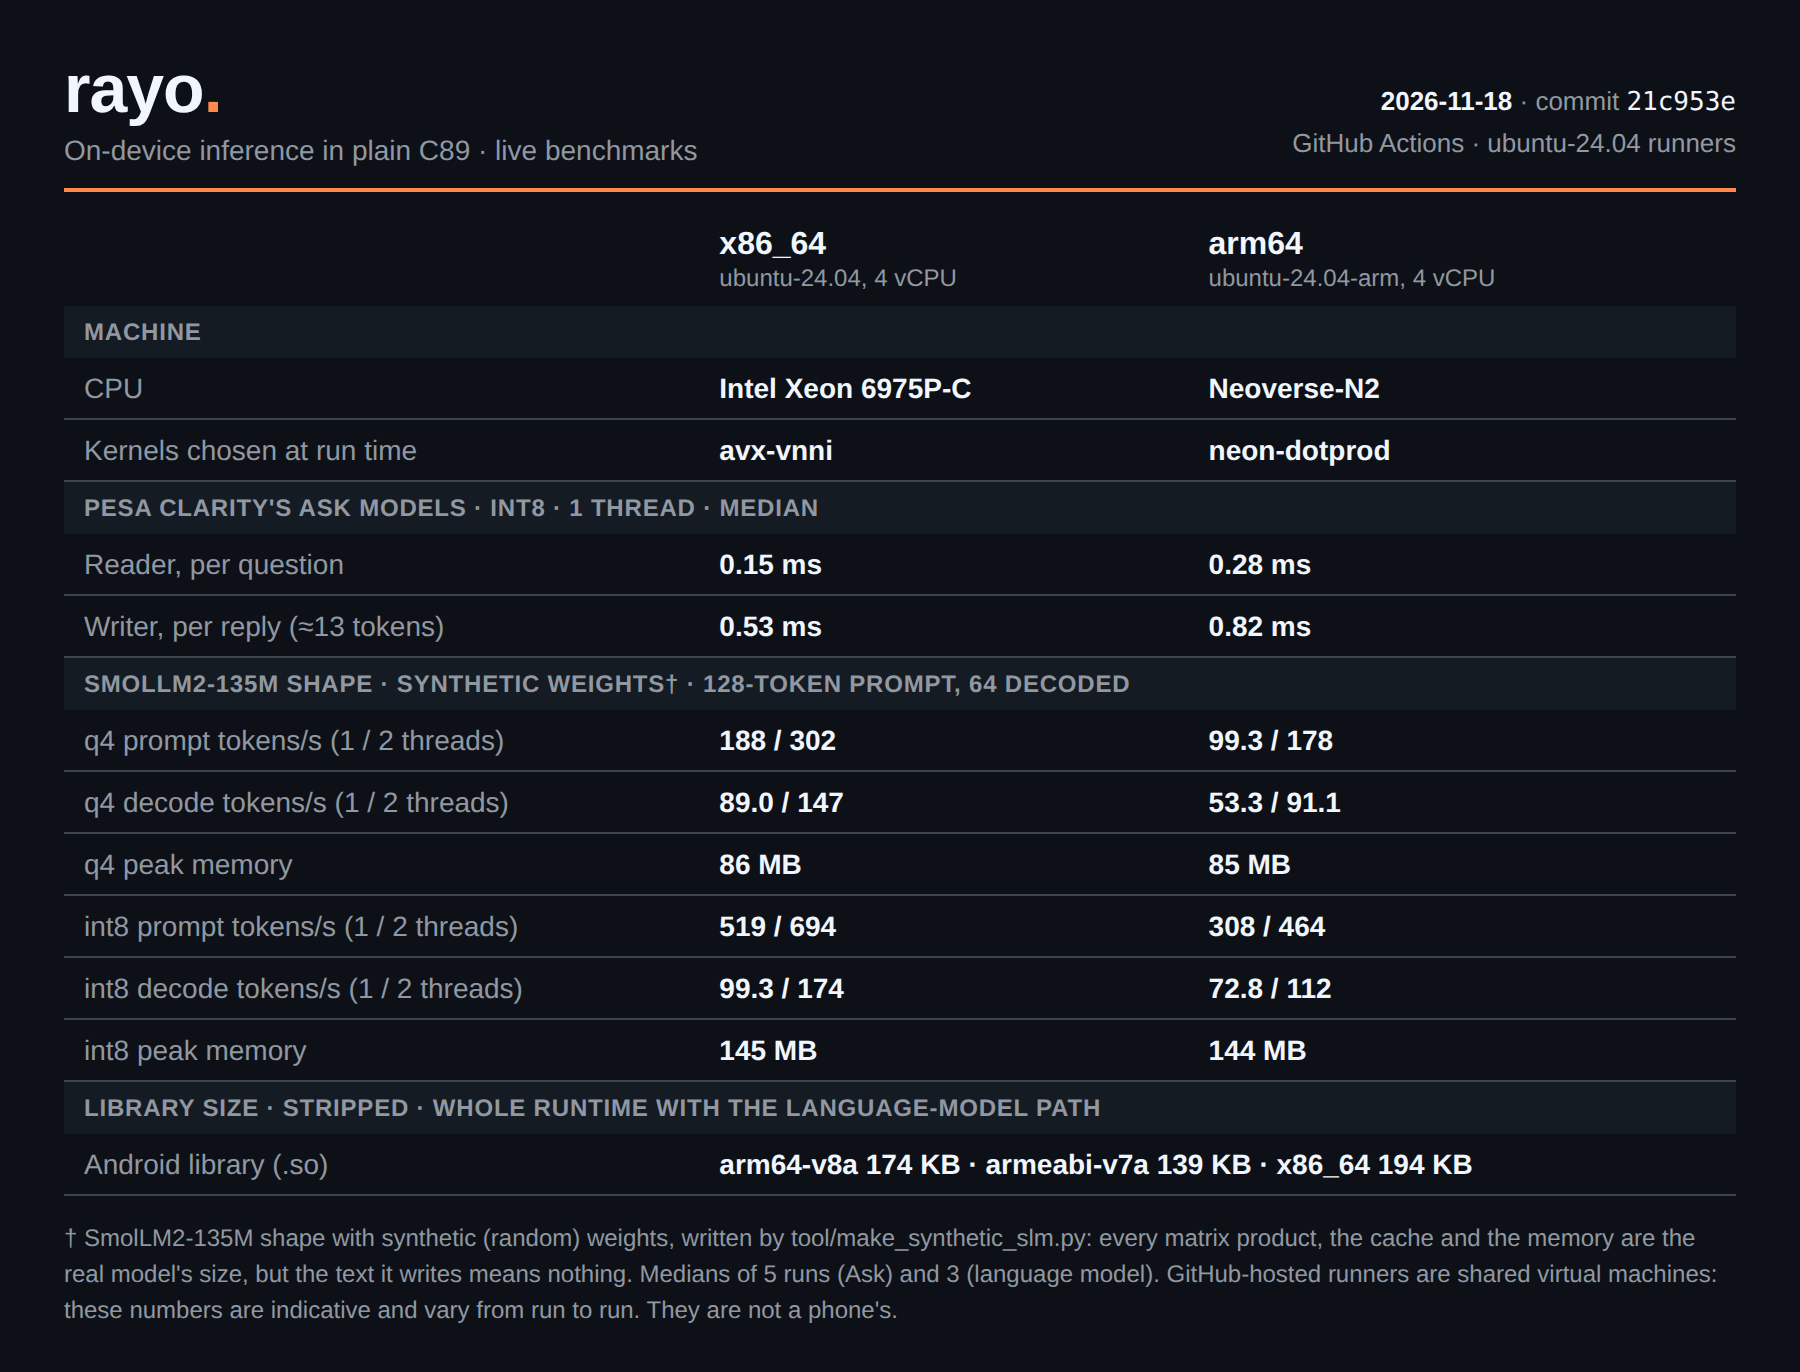
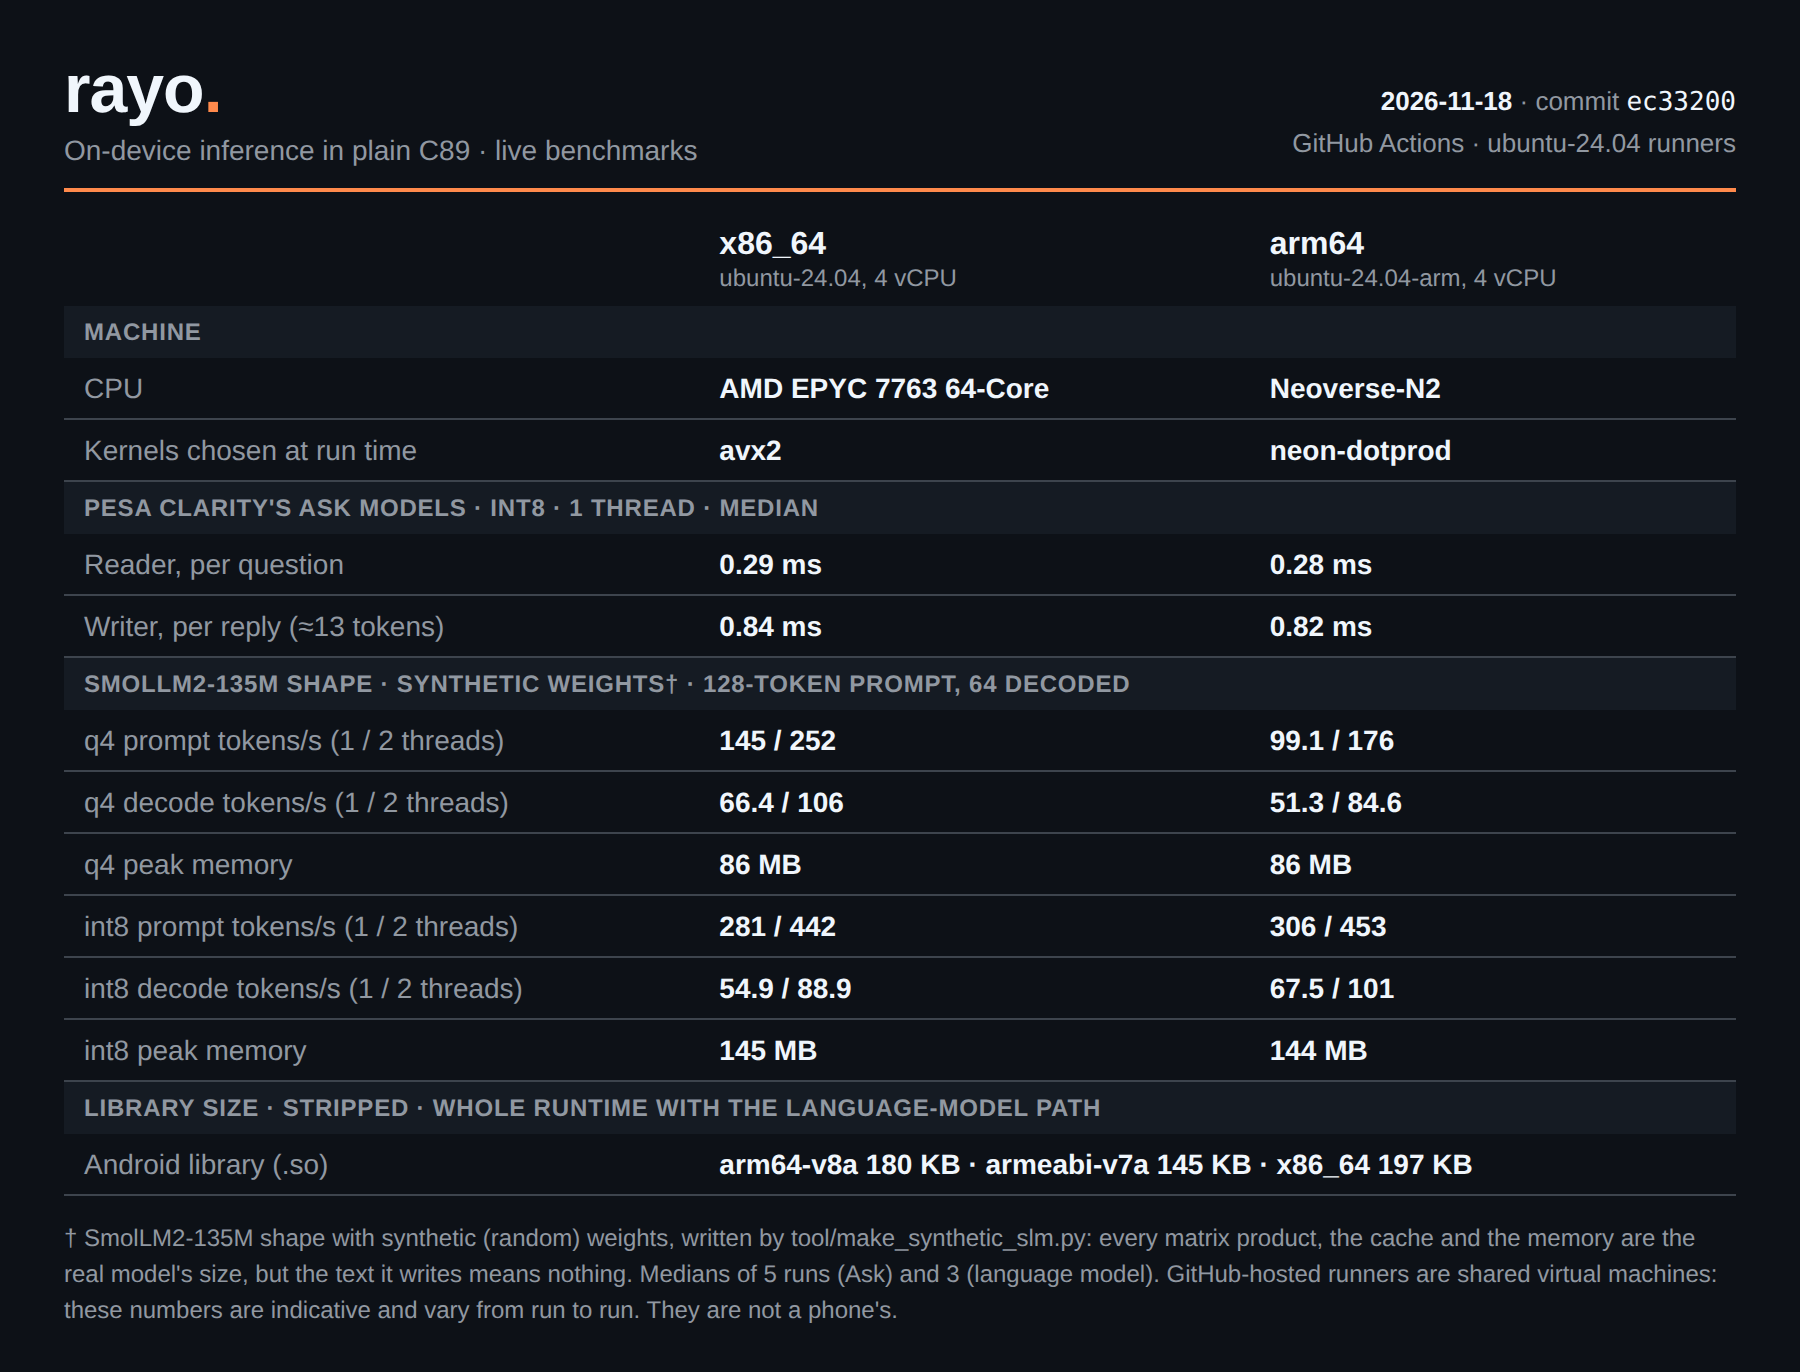
bench: ec33200
Results of pesaclarity/rayo@ec33200d47f454eb128cd5ddf9ed00658af16f87 (https://github.com/pesaclarity/rayo/actions/runs/44343281346).

diff --git a/table.html b/table.html
@@ -39,25 +39,25 @@ footer { margin-top: 12px; font-size: 12px; color: var(--muted); line-height: 1.
 <header>
   <div class="brand">rayo<span>.</span><small>On-device inference in plain C89 · live
   benchmarks</small></div>
-  <div class="meta"><b>2026-11-18</b> · commit <code>21c953e</code><br>
+  <div class="meta"><b>2026-11-18</b> · commit <code>ec33200</code><br>
   GitHub Actions · ubuntu-24.04 runners</div>
 </header>
 <table><thead><tr><th></th><th>x86_64<small>ubuntu-24.04, 4 vCPU</small></th><th>arm64<small>ubuntu-24.04-arm, 4 vCPU</small></th></tr></thead><tbody>
 <tr class="section"><td colspan="3">Machine</td></tr>
-<tr><td class="label">CPU</td><td class="num">Intel Xeon 6975P-C</td><td class="num">Neoverse-N2</td></tr>
-<tr><td class="label">Kernels chosen at run time</td><td class="num">avx-vnni</td><td class="num">neon-dotprod</td></tr>
+<tr><td class="label">CPU</td><td class="num">AMD EPYC 7763 64-Core</td><td class="num">Neoverse-N2</td></tr>
+<tr><td class="label">Kernels chosen at run time</td><td class="num">avx2</td><td class="num">neon-dotprod</td></tr>
 <tr class="section"><td colspan="3">Pesa Clarity&#x27;s Ask models · int8 · 1 thread · median</td></tr>
-<tr><td class="label">Reader, per question</td><td class="num">0.15 ms</td><td class="num">0.28 ms</td></tr>
-<tr><td class="label">Writer, per reply (≈13 tokens)</td><td class="num">0.53 ms</td><td class="num">0.82 ms</td></tr>
+<tr><td class="label">Reader, per question</td><td class="num">0.29 ms</td><td class="num">0.28 ms</td></tr>
+<tr><td class="label">Writer, per reply (≈13 tokens)</td><td class="num">0.84 ms</td><td class="num">0.82 ms</td></tr>
 <tr class="section"><td colspan="3">SmolLM2-135M shape · synthetic weights† · 128-token prompt, 64 decoded</td></tr>
-<tr><td class="label">q4 prompt tokens/s (1 / 2 threads)</td><td class="num">188 / 302</td><td class="num">99.3 / 178</td></tr>
-<tr><td class="label">q4 decode tokens/s (1 / 2 threads)</td><td class="num">89.0 / 147</td><td class="num">53.3 / 91.1</td></tr>
-<tr><td class="label">q4 peak memory</td><td class="num">86 MB</td><td class="num">85 MB</td></tr>
-<tr><td class="label">int8 prompt tokens/s (1 / 2 threads)</td><td class="num">519 / 694</td><td class="num">308 / 464</td></tr>
-<tr><td class="label">int8 decode tokens/s (1 / 2 threads)</td><td class="num">99.3 / 174</td><td class="num">72.8 / 112</td></tr>
+<tr><td class="label">q4 prompt tokens/s (1 / 2 threads)</td><td class="num">145 / 252</td><td class="num">99.1 / 176</td></tr>
+<tr><td class="label">q4 decode tokens/s (1 / 2 threads)</td><td class="num">66.4 / 106</td><td class="num">51.3 / 84.6</td></tr>
+<tr><td class="label">q4 peak memory</td><td class="num">86 MB</td><td class="num">86 MB</td></tr>
+<tr><td class="label">int8 prompt tokens/s (1 / 2 threads)</td><td class="num">281 / 442</td><td class="num">306 / 453</td></tr>
+<tr><td class="label">int8 decode tokens/s (1 / 2 threads)</td><td class="num">54.9 / 88.9</td><td class="num">67.5 / 101</td></tr>
 <tr><td class="label">int8 peak memory</td><td class="num">145 MB</td><td class="num">144 MB</td></tr>
 <tr class="section"><td colspan="3">Library size · stripped · whole runtime with the language-model path</td></tr>
-<tr><td class="label">Android library (.so)</td><td class="num" colspan="2">arm64-v8a 174 KB · armeabi-v7a 139 KB · x86_64 194 KB</td></tr>
+<tr><td class="label">Android library (.so)</td><td class="num" colspan="2">arm64-v8a 180 KB · armeabi-v7a 145 KB · x86_64 197 KB</td></tr>
 </tbody></table>
 <footer>† SmolLM2-135M shape with synthetic (random) weights, written by tool/make_synthetic_slm.py: every matrix product, the cache and the memory are the real model&#x27;s size, but the text it writes means nothing. Medians of 5 runs (Ask) and 3 (language model). GitHub-hosted runners are shared virtual machines: these numbers are indicative and vary from run to run. They are not a phone&#x27;s.</footer>
 </div></body></html>

diff --git a/README.md b/README.md
@@ -7,34 +7,36 @@ Written by CI after every push to `main` ([`.github/workflows/ci.yml`](https://g
   <img alt="rayo benchmarks" src="table-light.png">
 </picture>
 
-## Latest: 2026-11-18, [`21c953e`](https://github.com/pesaclarity/rayo/commit/21c953ebad8cb88790add8fcb8462e371cd6229d)
+## Latest: 2026-11-18, [`ec33200`](https://github.com/pesaclarity/rayo/commit/ec33200d47f454eb128cd5ddf9ed00658af16f87)
 
 | | **x86_64**<br>ubuntu-24.04, 4 vCPU | **arm64**<br>ubuntu-24.04-arm, 4 vCPU |
 | --- | --- | --- |
 | **Machine** | | |
-| CPU | Intel Xeon 6975P-C | Neoverse-N2 |
-| Kernels chosen at run time | avx-vnni | neon-dotprod |
+| CPU | AMD EPYC 7763 64-Core | Neoverse-N2 |
+| Kernels chosen at run time | avx2 | neon-dotprod |
 | **Pesa Clarity's Ask models · int8 · 1 thread · median** | | |
-| Reader, per question | 0.15 ms | 0.28 ms |
-| Writer, per reply (≈13 tokens) | 0.53 ms | 0.82 ms |
+| Reader, per question | 0.29 ms | 0.28 ms |
+| Writer, per reply (≈13 tokens) | 0.84 ms | 0.82 ms |
 | **SmolLM2-135M shape · synthetic weights† · 128-token prompt, 64 decoded** | | |
-| q4 prompt tokens/s (1 / 2 threads) | 188 / 302 | 99.3 / 178 |
-| q4 decode tokens/s (1 / 2 threads) | 89.0 / 147 | 53.3 / 91.1 |
-| q4 peak memory | 86 MB | 85 MB |
-| int8 prompt tokens/s (1 / 2 threads) | 519 / 694 | 308 / 464 |
-| int8 decode tokens/s (1 / 2 threads) | 99.3 / 174 | 72.8 / 112 |
+| q4 prompt tokens/s (1 / 2 threads) | 145 / 252 | 99.1 / 176 |
+| q4 decode tokens/s (1 / 2 threads) | 66.4 / 106 | 51.3 / 84.6 |
+| q4 peak memory | 86 MB | 86 MB |
+| int8 prompt tokens/s (1 / 2 threads) | 281 / 442 | 306 / 453 |
+| int8 decode tokens/s (1 / 2 threads) | 54.9 / 88.9 | 67.5 / 101 |
 | int8 peak memory | 145 MB | 144 MB |
 | **Library size · stripped · whole runtime with the language-model path** | | |
-| Android library (.so) | arm64-v8a 174 KB · armeabi-v7a 139 KB · x86_64 194 KB |  |
+| Android library (.so) | arm64-v8a 180 KB · armeabi-v7a 145 KB · x86_64 197 KB |  |
 
 † SmolLM2-135M shape with synthetic (random) weights, written by tool/make_synthetic_slm.py: every matrix product, the cache and the memory are the real model's size, but the text it writes means nothing.
 
-The run: https://github.com/pesaclarity/rayo/actions/runs/44327395388
+The run: https://github.com/pesaclarity/rayo/actions/runs/44343281346
 
 ## History (the last 10 runs; all in [history.csv](history.csv))
 
 | date | commit | runner | reader ms | writer ms | q4 decode tok/s 1 / 2 threads | int8 decode tok/s 1 / 2 threads |
 | --- | --- | --- | --- | --- | --- | --- |
+| 2026-11-18 | [`ec33200`](https://github.com/pesaclarity/rayo/commit/ec33200d47f454eb128cd5ddf9ed00658af16f87) | ubuntu-24.04-arm | 0.3 | 0.8 | 51.3 / 84.6 | 67.5 / 101 |
+| 2026-11-18 | [`ec33200`](https://github.com/pesaclarity/rayo/commit/ec33200d47f454eb128cd5ddf9ed00658af16f87) | ubuntu-24.04 | 0.3 | 0.8 | 66.4 / 106 | 54.9 / 88.9 |
 | 2026-11-18 | [`21c953e`](https://github.com/pesaclarity/rayo/commit/21c953ebad8cb88790add8fcb8462e371cd6229d) | ubuntu-24.04-arm | 0.3 | 0.8 | 53.3 / 91.1 | 72.8 / 112 |
 | 2026-11-18 | [`21c953e`](https://github.com/pesaclarity/rayo/commit/21c953ebad8cb88790add8fcb8462e371cd6229d) | ubuntu-24.04 | 0.2 | 0.5 | 89.0 / 147 | 99.3 / 174 |
 | 2026-11-18 | [`b7838f6`](https://github.com/pesaclarity/rayo/commit/b7838f6648e8f100674d0e70412c092bb2c6bb6d) | ubuntu-24.04-arm | 0.3 | 0.8 | 51.8 / 87.5 | 67.8 / 97.9 |
